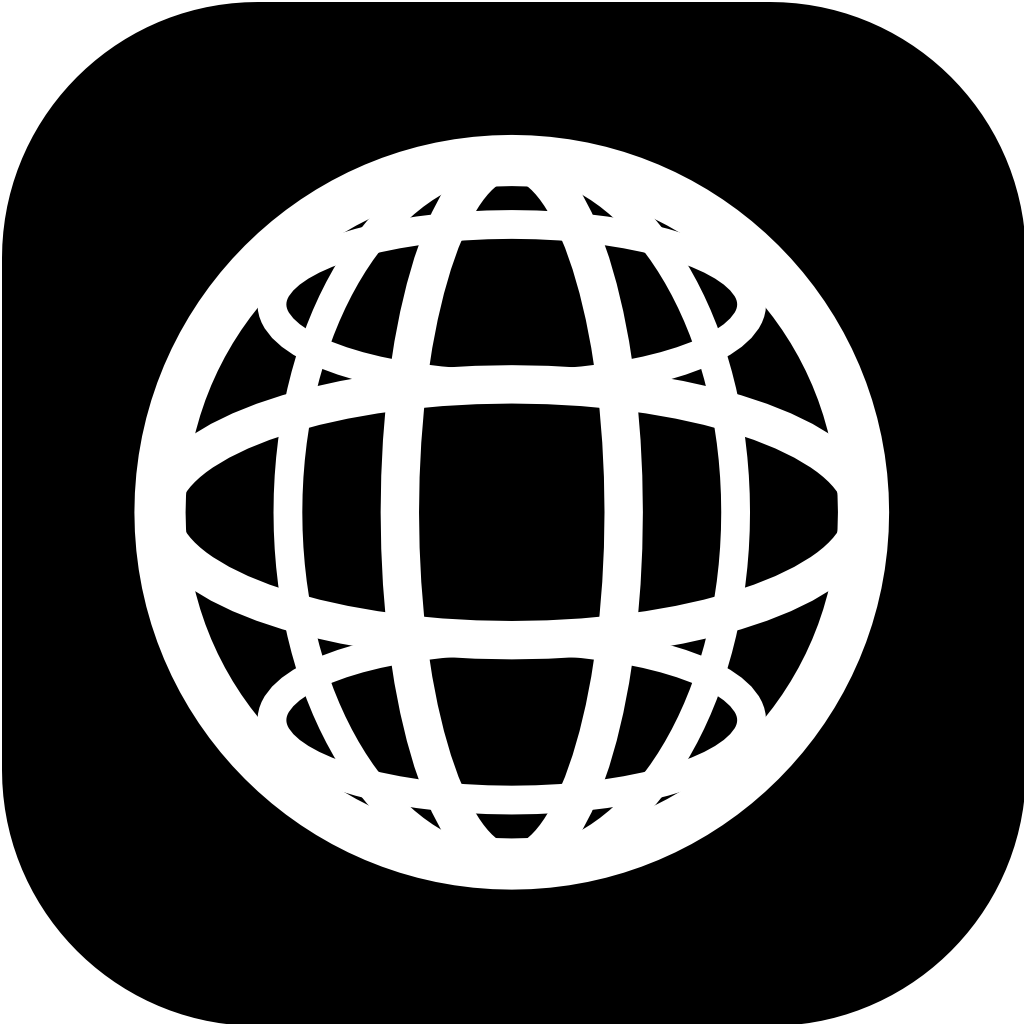
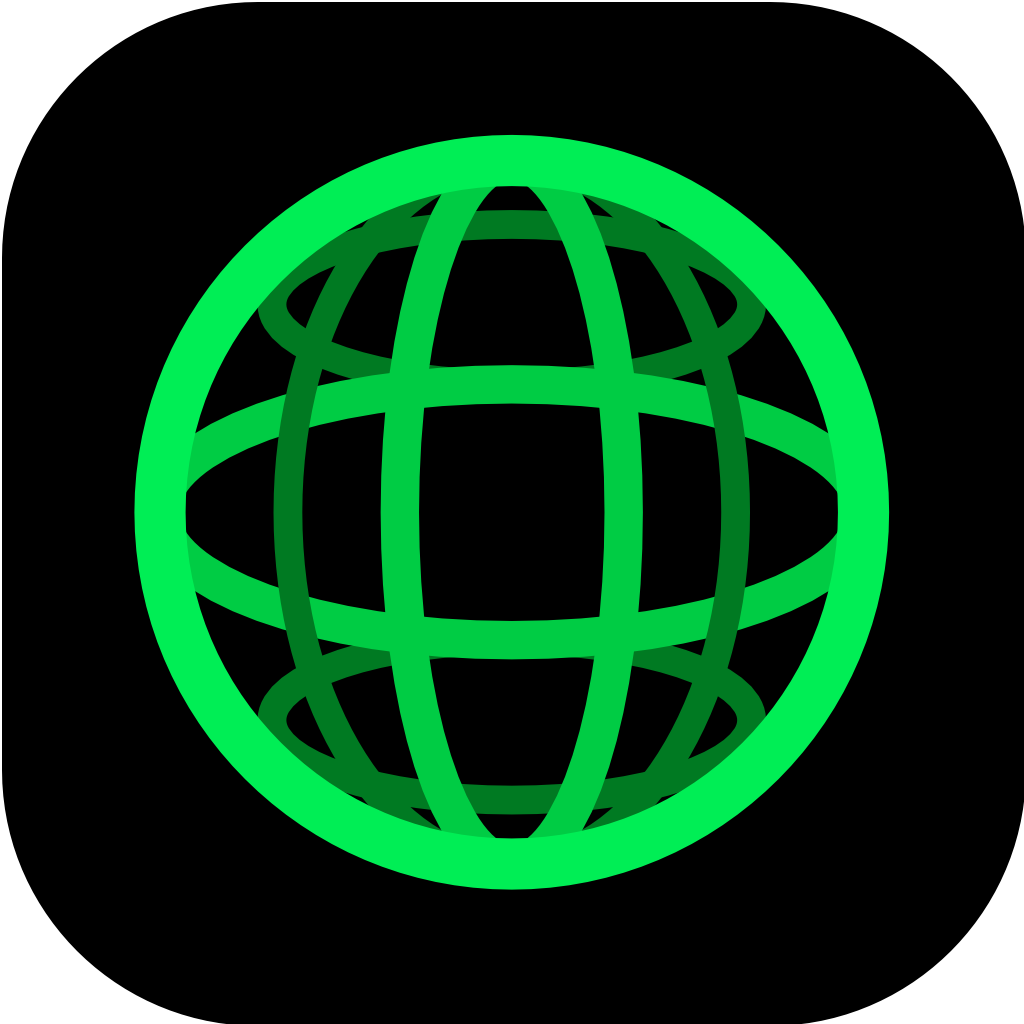
2.1.1

Changed region(s): [[0.125, 0.125, 0.875, 0.875]]

diff --git a/pages/home/css/hub.css b/pages/home/css/hub.css
@@ -607,17 +607,18 @@ a.aim-logo-mark:hover { opacity: 1; filter: drop-shadow(0 0 4px #00EE55); }
 /* ── Status bar (footer) ───────────────────────────────── */
 .aim-statusbar {
   display: flex;
+  flex-direction: column;
   align-items: center;
-  justify-content: space-between;
-  padding: 4px 10px;
+  gap: 4px;
+  padding: 8px 10px;
   background: var(--app-bg);
   border-top: 1px solid var(--chrome-dark);
-  font-size: 11px;
   color: var(--ink-muted);
   flex-shrink: 0;
 }
 
-.aim-statusbar-links { display: flex; gap: 10px; }
+.aim-statusbar-links { display: flex; gap: 12px; justify-content: center; order: 1; }
+.aim-statusbar > span { order: 2; font-size: 9px; text-align: center; }
 .aim-statusbar a { color: var(--ink-muted); text-decoration: none; font-size: 11px; }
 .aim-statusbar a:hover { color: var(--aim-blue-mid); text-decoration: underline; }
 
@@ -671,11 +672,10 @@ a.aim-logo-mark:hover { opacity: 1; filter: drop-shadow(0 0 4px #00EE55); }
   }
 
   .aim-statusbar {
-    flex-wrap: wrap;
-    gap: 4px;
     font-size: 10px;
-    padding: 5px 10px;
-    padding-bottom: calc(5px + env(safe-area-inset-bottom, 0px));
+    padding: 10px 16px;
+    padding-bottom: calc(18px + env(safe-area-inset-bottom, 0px));
+    border-radius: 0 0 28px 28px;
   }
 
   .aim-desktop-nav  { display: none; }
@@ -757,7 +757,6 @@ a.aim-logo-mark:hover { opacity: 1; filter: drop-shadow(0 0 4px #00EE55); }
 
 /* Small phone ≤ 400px */
 @media (max-width: 400px) {
-  .aim-logo-text   { display: none; }
   .aim-tagline     { display: none; }
   .aim-main        { padding: 4px; }
   .aim-panel-body  { padding: 8px; }